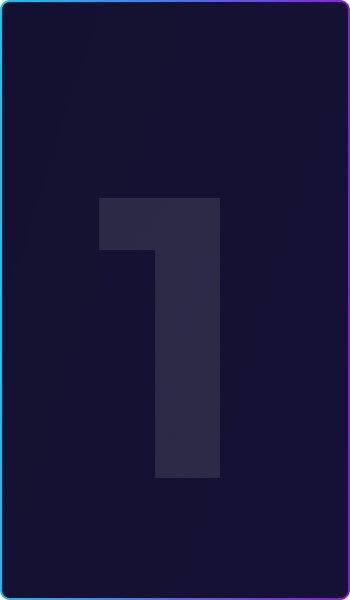
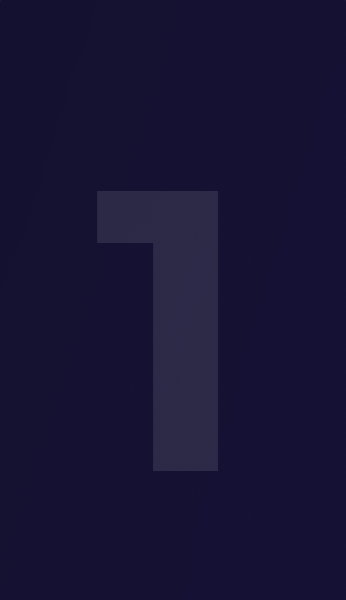
испарвления в слайдере

Changed region(s): [[0.0, 0.0, 1.0, 1.0]]

diff --git a/src/html/_stages.htm b/src/html/_stages.htm
@@ -7,7 +7,7 @@
             <div class="swiper-slide">
                 <div class="stages__border">
                     <div class="stages__item stages-item">
-                        <img src="@img/1.png" alt="">
+                        <img src="@img/1.jpg" alt="">
                         <h6 class="stages-item__title">Заполнение брифа и составление ТЗ</h6>
                         <p class="stages-item__text">Я высылаю вам бриф с перечнем вопросов. Если на какой-то вопрос у
                             вас
@@ -25,7 +25,7 @@
             <div class="swiper-slide">
                 <div class="stages__border">
                     <div class="stages__item stages-item ">
-                        <img src="@img/2.png" alt="">
+                        <img src="@img/2.jpg" alt="">
                         <h6 class="stages-item__title">Дизайн</h6>
                         <p class="stages-item__text">Разработка дизайн-макета в Figma на основе ТЗ и Брифа</p>
                         <p class="stages-item__text"></p>
@@ -36,7 +36,7 @@
             <div class="swiper-slide">
                 <div class="stages__border">
                     <div class="stages__item stages-item ">
-                        <img src="@img/3.png" alt="">
+                        <img src="@img/3.jpg" alt="">
                         <h6 class="stages-item__title">Вёрстка кодом и посадка на CMS WordPress</h6>
                         <p class="stages-item__text">После утверждения Вами дизайн-макета, верстаю его с помощью html5, css3 и js.</p>
                         <p class="stages-item__text"></p>
@@ -47,7 +47,7 @@
             <div class="swiper-slide">
                 <div class="stages__border">
                     <div class="stages__item stages-item ">
-                        <img src="@img/4.png" alt="">
+                        <img src="@img/4.jpg" alt="">
                         <h6 class="stages-item__title">Загрузка CMS на хостинг</h6>
                         <p class="stages-item__text">Готовую вёрстку загружаю на выбранный хостинг, подключаю домен, устанавливаю SSL-сертификат, провожу дополнительные
                         настройки для корректной работы Вашего сайта.</p>
@@ -59,7 +59,7 @@
             <div class="swiper-slide">
                 <div class="stages__border">
                     <div class="stages__item stages-item ">
-                        <img src="@img/5.png" alt="">
+                        <img src="@img/5.jpg" alt="">
                         <h6 class="stages-item__title">Передача прав на сайт</h6>
                         <p class="stages-item__text">После проведения всех необходимых работ и их утверждения, передаю Вам все доступы и права к Вашему сайту.</p>
                         <p class="stages-item__text"></p>

diff --git a/src/scss/stages.scss b/src/scss/stages.scss
@@ -49,12 +49,14 @@
     text-align: center;
     position: relative;
     overflow: hidden;
+ 
     img {
-        max-width: 100%;
-        // height: 100%;
+       max-width: 100%;
+       // height: 100%;
         position: absolute;
         top: 0;
         left: 0;
+      
     }
     // &::before {
     //     content: "1";
